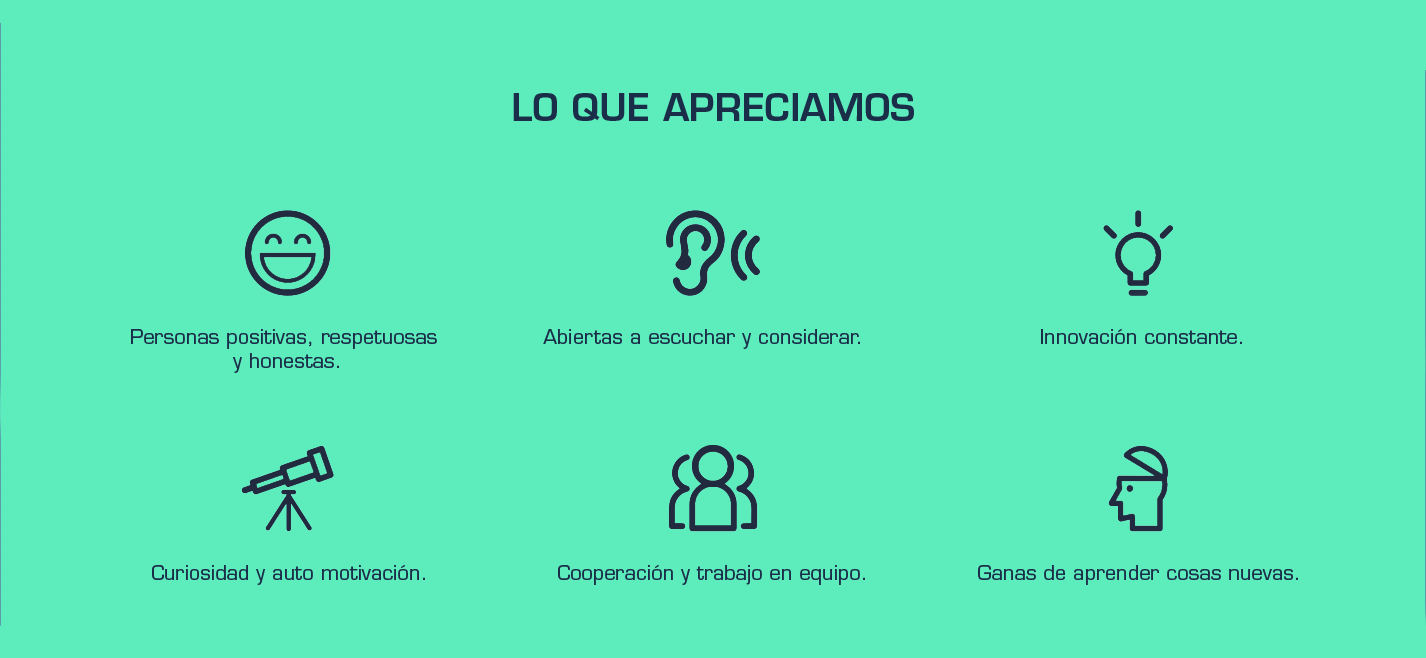
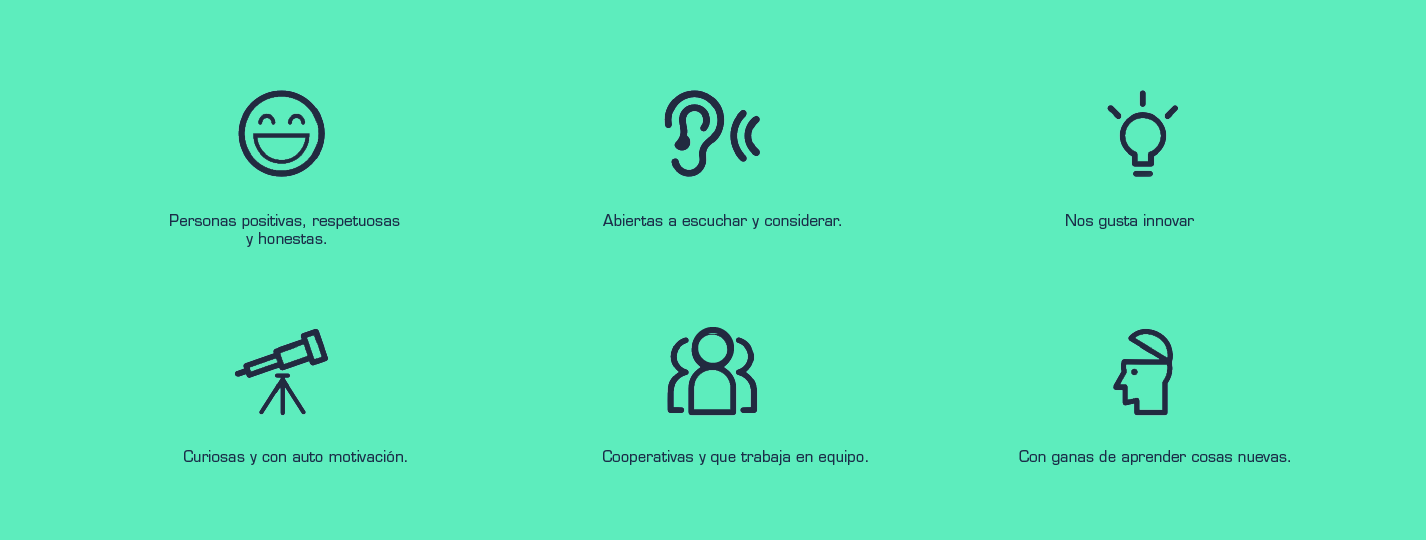
commit 14

diff --git a/pages/about.html b/pages/about.html
@@ -59,19 +59,14 @@
         </nav>
     </header>
     <main>
-        <section class="content" style="padding-bottom: 20px;">
-            <div class="parallax img-uno" id="m">
-                <div class="textoimg">
-                    <h1 class="titular" id="m">Somos curiosos, apasionados<br> 
-                    comprometidos y agiles</h1>
-                </div>
-            </div>
-        </section>
-        <section class="container-fluid">
-            <div class="row">
+        <div>
+            <img src="../images/about/headabout.jpg" class="img-fluid object-fit-cover img-head" alt="bl2" width="100%" style="margin-bottom: 20px;">
+        </div>
+        <section class="container">
+            <div>
                 <article>
                     <h3>
-                        Quienes somos
+                        ¿Quiénes somos?
                     </h3>
                     <p>
                         Somos un estudio de diseño y comunicación de Argentina. Desde 2013 impulsamos el posicionamiento de organizaciones públicas y privadas integrando estrategia, diseño y gestión para construir marcas potentes que puedan crecer en mercados complejos y dinámicos.
@@ -79,12 +74,12 @@
                         Nos involucramos en cada proyecto y mantenemos un trato permanente, cercano y directo con nuestros clientes. Esto nos permite comprender a fondo sus necesidades y encontrar las soluciones adecuadas para cada desafío. 
                     </p>
                 </article>
-                <div class="container-fluid">
-                    <img src="../images/about/apreciamos.png" class="img-fluid object-fit-cover" alt="bl2" width="100%" style="padding-bottom: 20px;">
+                <div>
+                    <img src="../images/about/apreciamosc.png" class="img-fluid object-fit-cover" alt="bl2" width="100%" style="padding-bottom: 20px;">
                 </div>
                 <article style="padding-bottom: 20px; text-align: center;">
                     <h3>
-                        Como trabajamos
+                        ¿Cómo trabajamos?
                     </h3>
                     <p>
                         Cubrimos la actividad de las personas en Internet, con creatividad, diseño, tecnología y experiencia.
@@ -100,6 +95,10 @@
                         Brindamos resultados e información que permiten a nuestros clientes tomar mejores decisiones.
                     </p>
                 </article>
+            </div>
+        </section>
+        <section class="container-fluid">
+            <div class="row">
                 <article class="col-lg-3 col-md-6 col-sm-12" style="background-color: #f2f2f2; padding-top: 20px; text-align: center;">
                     <h3>
                         Exelencia

diff --git a/pages/servicios.html b/pages/servicios.html
@@ -59,19 +59,19 @@
         </nav>
     </header>
     <main>
-        <div class="container-fluid">
-            <img src="../images/servicios/headservicios.jpg" class="img-fluid object-fit-cover img-head" alt="bl2" width="100%" style="padding-bottom: 20px;">
+        <div>
+            <img src="../images/servicios/headservicios.jpg" class="img-fluid object-fit-cover img-head" alt="bl2" width="100%" style="margin-bottom: 20px;">
         </div>
-        <div class="container-fluid">
+        <div class="container">
             <h3>
-                Que hacemos?
+                ¿Qué hacemos?
             </h3>
             <p class="texto-corrido">
                 Estamos navegando una transformación digital que va más allá de las tecnologías. Es un cambio que redefine la dinámica de las organizaciones, los negocios y nuestra propia forma de pensar y relacionarnos. Para enfrentar este gran desafío, brindamos un ecosistema de soluciones integrales para responder a las necesidades y objetivos de cada cliente.
             </p>
         </div>
 
-        <section class="container-fluid">
+        <section class="container">
             <div class="row">
                 <div class="col-lg-4 col-md-6 col-sm-12">
                     <img src="../images/servicios/innovacion.png" class="img-fluid" alt="oir" width="25%">

diff --git a/index.html b/index.html
@@ -64,13 +64,13 @@
                 <div class="parallax img-uno" id="m">
                     <div class="textoimg">
                         <h1 class="titular" id="m">Hola! Somos dkr.<br> 
-                        Una agencia de comunicacion<br>con sede en Rosario y Barcelona</h1><br>
+                        Una agencia de comunicación<br>con sede en Rosario y Barcelona.</h1><br>
                         <h2 class="subtitular">Scrolea para ver nuestros trabajos</h2>
                     </div>
                 </div>
             </section>
     
-    <section class="container-fluid">
+    <section class="container">
         <div class="row row-margin">
             <div class="col-lg-4 col-md-6 col-sm-12 col-padding">
                 <div id="effect-hover">

diff --git a/pages/contacto.html b/pages/contacto.html
@@ -59,11 +59,11 @@
     </nav>
   </header>
   <main>
-    <div class="container-fluid">
-      <img src="../images/contacto/contacto.jpg" class="img-fluid object-fit-cover img-head" alt="bl2" width="100%">
+    <div>
+      <img src="../images/contacto/contacto.jpg" class="img-fluid object-fit-cover img-head" alt="bl2" width="100%" style="margin-bottom: 20px;">
     </div>
     <div class="container contact_form">
-      <div class="row row-margin">      
+      <div class="row">      
         <h3>¿Te podemos ayudar con algun proyecto?</h3>
           <h5>Escribinos y contanos un poco de que se trata</h5>
           <form>

diff --git a/css/main.css b/css/main.css
@@ -205,7 +205,7 @@ form {
   padding-bottom: 20px; }
 
 .img-head {
-  margin-top: 70px;
+  margin-top: 50px;
   height: 300px; }
 
 @use "../settings/variables";

diff --git a/scss/settings/_color.scss b/scss/settings/_color.scss
@@ -1,4 +1,4 @@
-$coral: coral;
+$coral: #ff7f50;
 $negro: #1b2e49;
 $white: #fff;
 $verde: #5dedbd;

diff --git a/scss/elements/_img-head.scss b/scss/elements/_img-head.scss
@@ -1,4 +1,4 @@
 .img-head {
-	margin-top: 70px;
+	margin-top: 50px;
 	height: 300px;
 }
